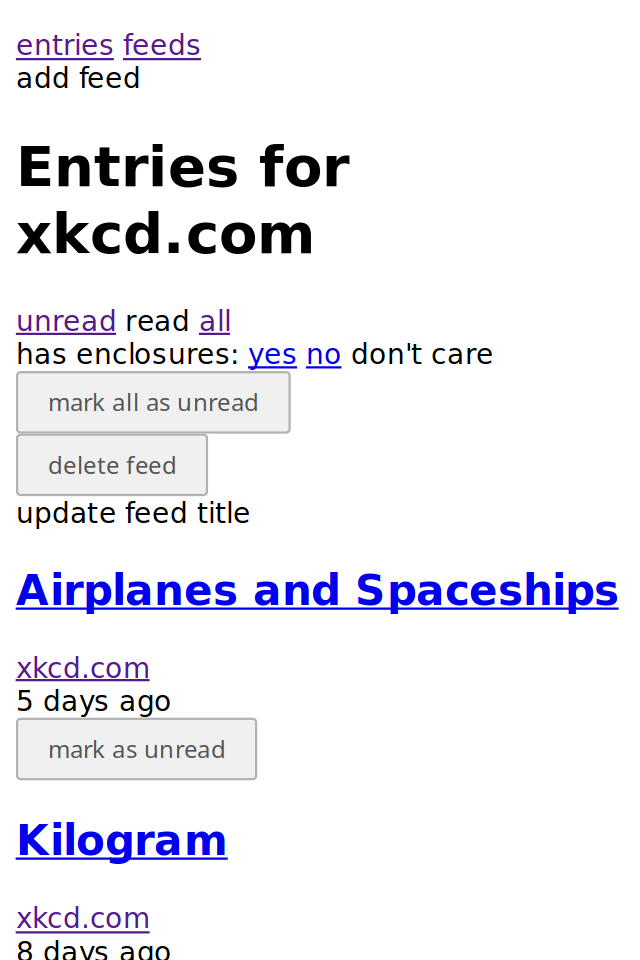
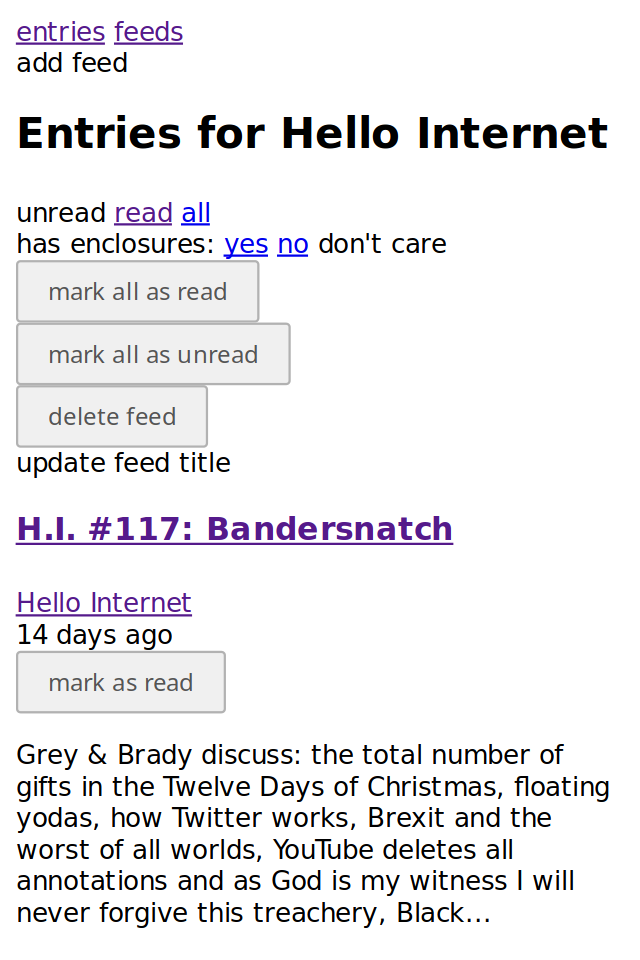
Update screenshots.

diff --git a/docs/app.rst b/docs/app.rst
@@ -10,7 +10,7 @@ Main page
 ~~~~~~~~~
 
 .. figure:: screenshots/entries.png
-    :width: 320px
+    :width: 240px
 
     main page
 
@@ -18,7 +18,7 @@ Feed page
 ~~~~~~~~~
 
 .. figure:: screenshots/entries-feed.png
-    :width: 320px
+    :width: 240px
 
     feed page
 
@@ -26,8 +26,21 @@ Feeds page
 ~~~~~~~~~~
 
 .. figure:: screenshots/feeds.png
-    :width: 320px
+    :width: 240px
 
     feeds page
 
+
+Lightweight browsers
+~~~~~~~~~~~~~~~~~~~~
+
+.. figure:: screenshots/lynx.png
+    :width: 240px
+
+    Lynx
+
+.. figure:: screenshots/dillo.png
+    :width: 240px
+
+    Dillo
 
